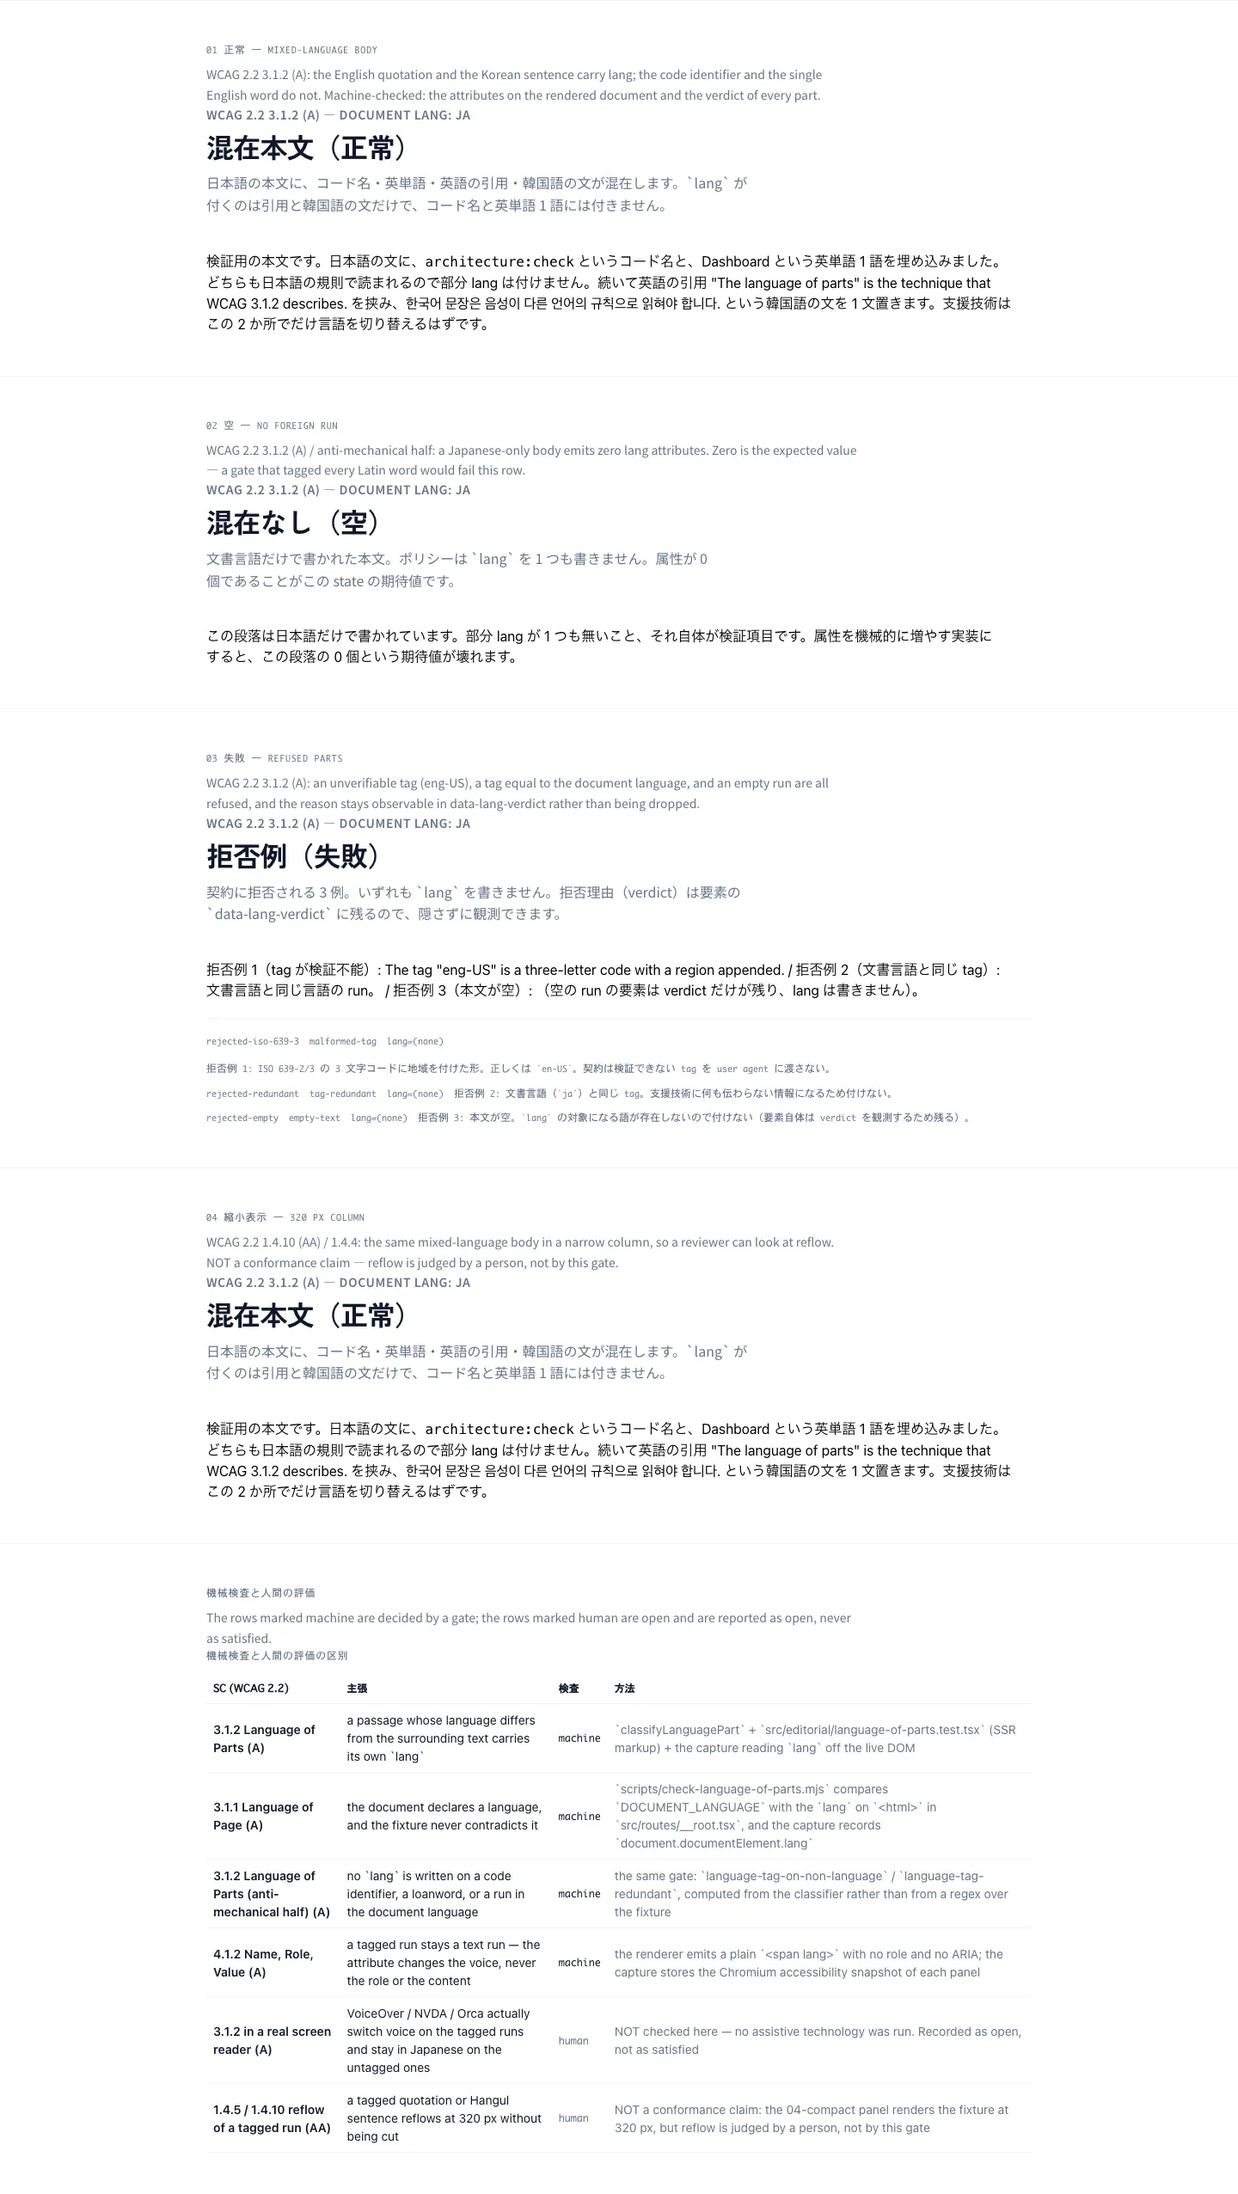
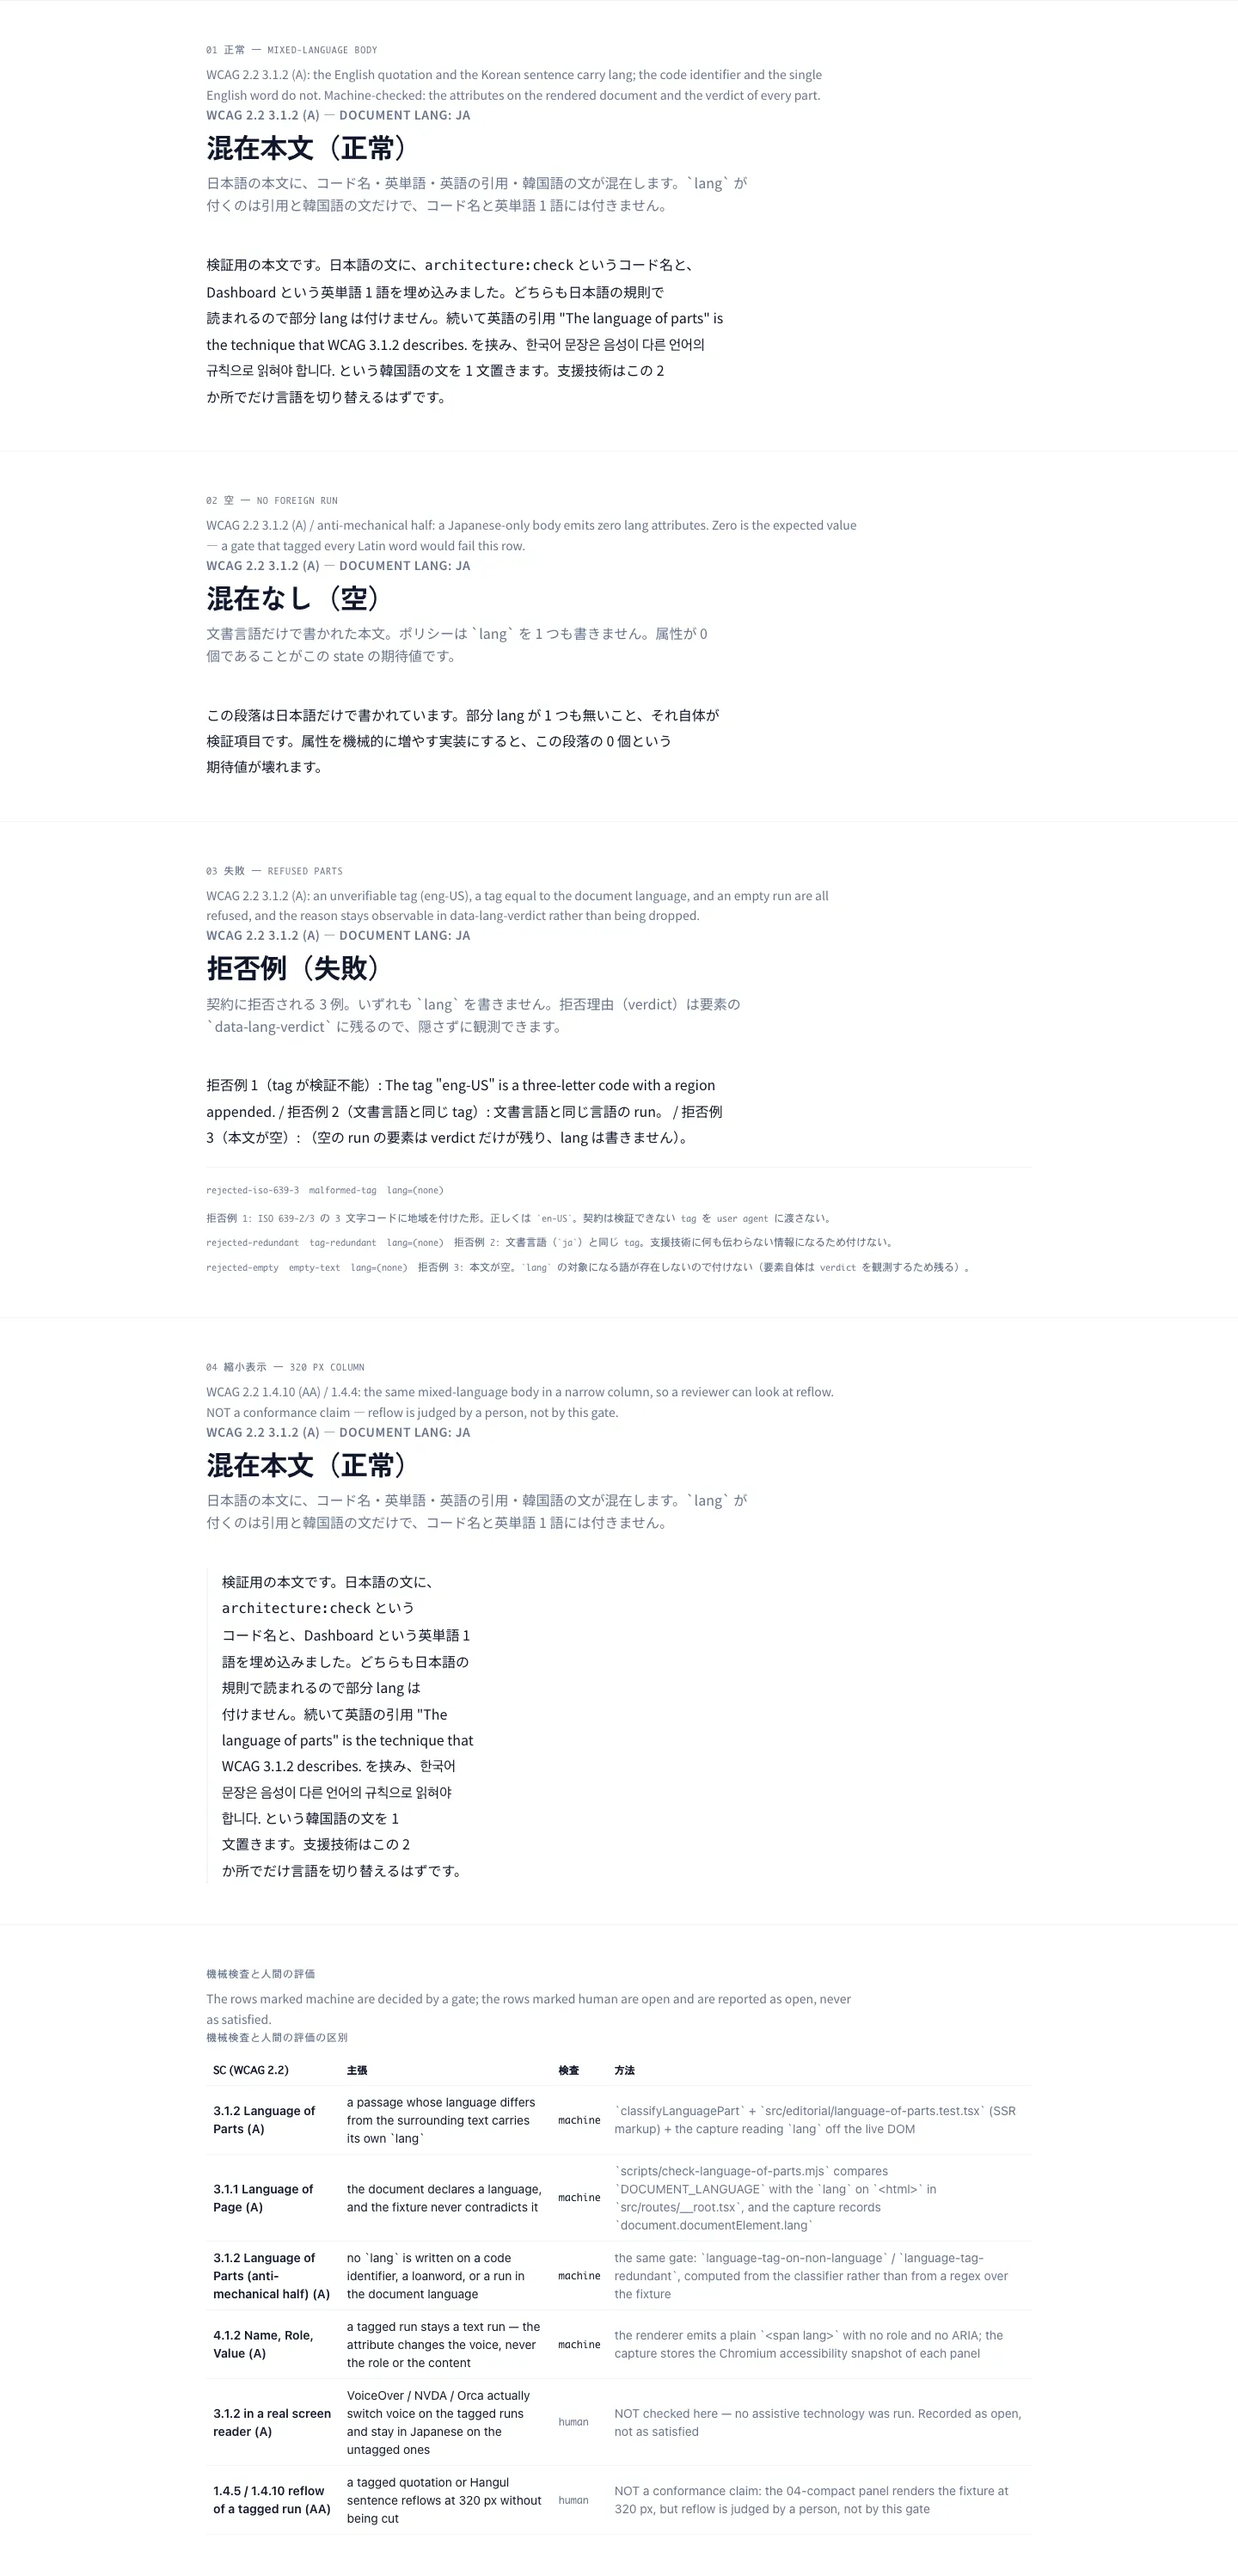
fix(editorial): compose the language-of-parts body styles with cx (#409)

diff --git a/src/i18n/language-of-parts.test.ts b/src/i18n/language-of-parts.test.ts
@@ -5,6 +5,7 @@ import {
 	LANGUAGE_PARTS,
 	LANGUAGE_PART_IDS,
 	LANGUAGE_WCAG_MAPPING,
+	type LanguagePart,
 	classifyLanguagePart,
 	expectedLanguageAttributes,
 	findLanguageDocument,
@@ -35,6 +36,13 @@ import { describeUnicode } from './unicode';
  * exists to catch, and a capture that cannot find a run is exactly the
  * failure the gate's coverage rule exists to catch.
  */
+
+/** A fixture part, failing loudly rather than returning undefined. */
+function part(id: string): LanguagePart {
+	const found = findLanguagePart(id);
+	if (!found) throw new Error(`fixture part "${id}" is missing`);
+	return found;
+}
 
 /** The verdict each fixture part must receive, authored here by hand. */
 const EXPECTED_VERDICTS: Record<string, string> = {
@@ -116,22 +124,18 @@ describe('classifyLanguagePart', () => {
 	});
 
 	it('refuses a tag that only differs from the document language by case', () => {
-		const part = { ...findLanguagePart('quote-english'), tag: 'EN' };
-		expect(classifyLanguagePart(part)).toBe('malformed-tag');
+		const quoted = { ...part('quote-english'), tag: 'EN' };
+		expect(classifyLanguagePart(quoted)).toBe('malformed-tag');
 	});
 
 	it('refuses a redundant tag even when the part could be tagged', () => {
 		// A Japanese quotation inside a Japanese document: the kind
 		// permits a tag, the language does not need one.
-		const part = {
-			...findLanguagePart('quote-english'),
-			tag: DOCUMENT_LANGUAGE.toUpperCase(),
-			id: 'japanese-quotation',
-		};
-		expect(classifyLanguagePart(part)).toBe('malformed-tag');
-		const lower = { ...part, tag: DOCUMENT_LANGUAGE };
-		expect(classifyLanguagePart(lower)).toBe('tag-redundant');
-		expect(languageAttributeFor(lower)).toBeNull();
+		const quoted = { ...part('quote-english'), tag: DOCUMENT_LANGUAGE.toUpperCase() };
+		expect(classifyLanguagePart(quoted)).toBe('malformed-tag');
+		const japanese = { ...part('quote-english'), tag: DOCUMENT_LANGUAGE };
+		expect(classifyLanguagePart(japanese)).toBe('tag-redundant');
+		expect(languageAttributeFor(japanese)).toBeNull();
 	});
 });
 

diff --git a/src/editorial/language-of-parts.tsx b/src/editorial/language-of-parts.tsx
@@ -1,4 +1,4 @@
-import { css } from '../../styled-system/css';
+import { css, cx } from '../../styled-system/css';
 import {
 	DOCUMENT_LANGUAGE,
 	LANGUAGE_WCAG_MAPPING,
@@ -150,7 +150,7 @@ export function LanguageOfParts({
 				title={document.title}
 				description={document.note}
 			/>
-			<p className={css(bodyClassName, columnClassName)} data-language-body={document.id}>
+			<p className={cx(bodyClassName, columnClassName)} data-language-body={document.id}>
 				{runs.map((run, index) => (
 					// Runs are positional, not unique: the same prose can appear
 					// twice in one body, so the identity is the part id plus

diff --git a/docs/verification/a11y/mixed-language-content.md b/docs/verification/a11y/mixed-language-content.md
@@ -13,7 +13,7 @@
 | capture 手段 | `pnpm run capture:a11y-language-of-parts`（`.tmp/` に Vite harness を生成 → loopback 配信 → Playwright Chromium → `sharp` で WebP 化） |
 | 描画 CSS | リポジトリの Panda 設定（`postcss.config.mjs` → `panda.config.ts`）を harness の Vite build に渡したもの |
 | viewport / DPR | 1440 x 900 / 1（`fullPage` 撮影） |
-| 生成物サイズ | 1440 x 2552 px、**203 kB** WebP（quality 80、budget 300 kB） |
+| 生成物サイズ | 1440 x 2996 px、**203 kB** WebP（quality 80、budget 300 kB） |
 | 再現性 | **encode 段は決定的、ブラウザ撮影は byte 再現ではない**。再生成は視覚的に同一であることを目標とする |
 | 本番非破壊 | 既定で外部通信なし。local harness build と loopback 配信のみ。deploy / remote binding / secret 値の読み出しは無い |
 
